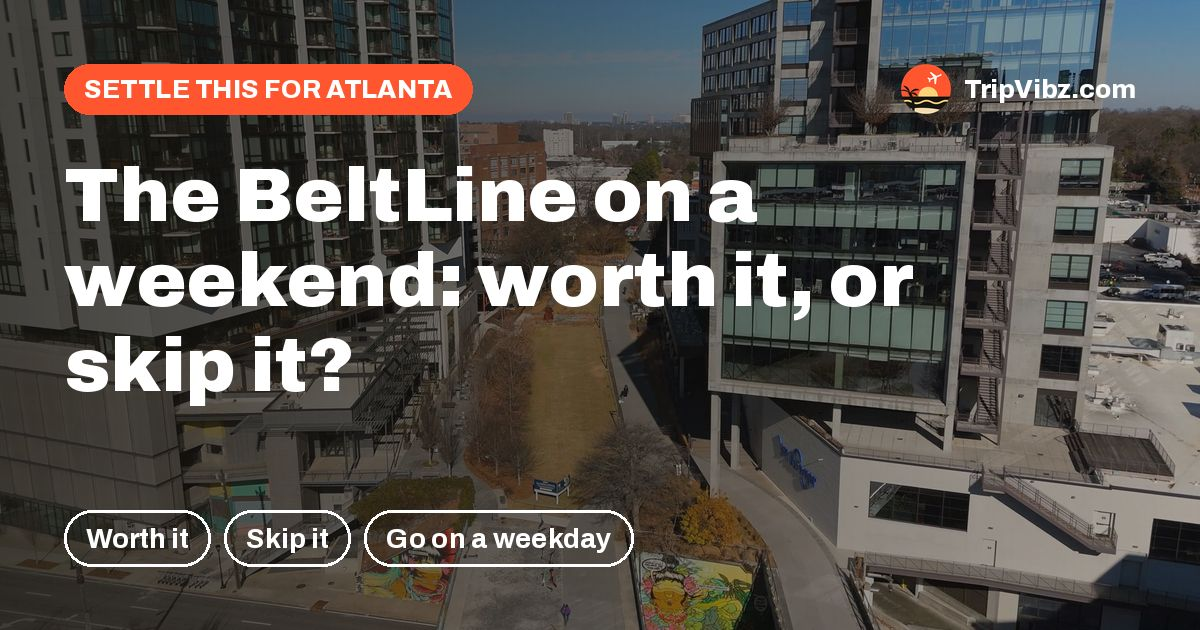
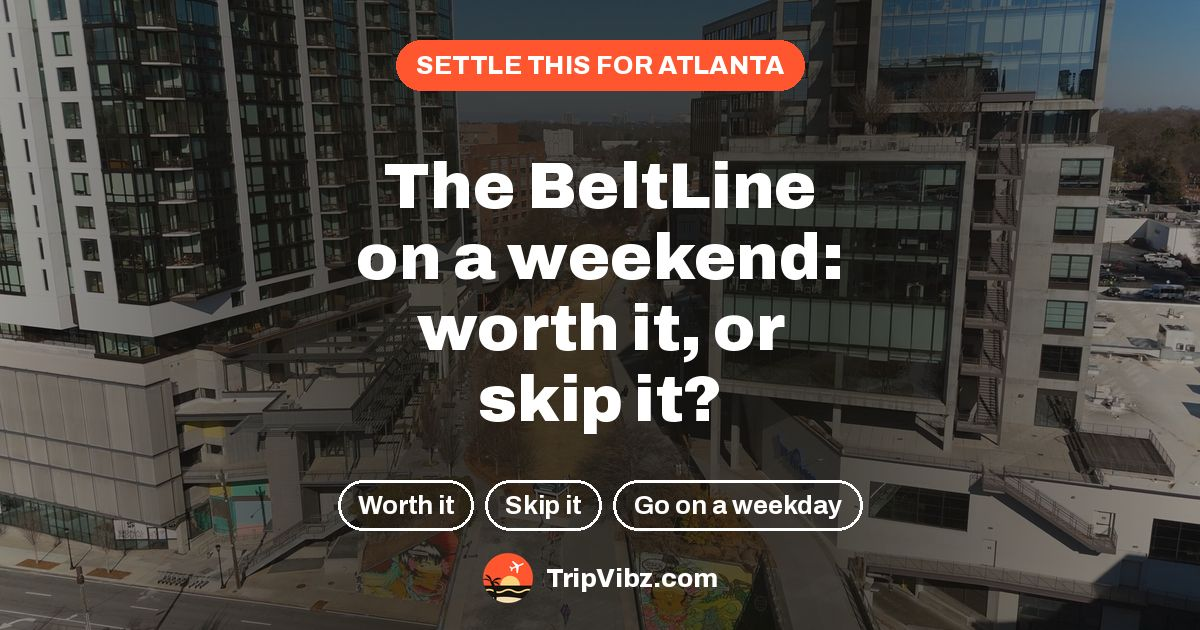
Share cards read in Facebook's comment preview
A link in a Facebook comment shows a square cut from the middle of the card,
and the left-aligned home card came out as fragments of words. The home,
cities and city question cards now keep every word inside the middle square,
centred, so both the full card and the square crop read.

Claude-Session: https://claude.ai/code/session_01NyWSecxYmZtntfacCNApmR

diff --git a/scripts/og_cards.py b/scripts/og_cards.py
@@ -142,13 +142,103 @@ def photo_base(pb):
     return shade(cover(Image.open(io.BytesIO(pb))))
 
 
+
+# ------------------------------------------------- centre-safe layout
+# Facebook shows a link's picture two ways: the whole 1200x630 card in a post, and a small
+# square cut from the MIDDLE of it beside a link in a comment (TripVibz reels put their link
+# in the first comment). Left-aligned cards came out as "...would / ...ke a / ?" in that
+# square (19 Nov 2026). Cards a person is likely to paste in a comment keep everything that
+# matters inside the middle square, centred, so both crops read.
+SAFE = 630                      # the middle square Facebook keeps
+SAFE_W = SAFE - 2 * 28          # widest line of type inside it
+CX = W // 2
+
+
+def shade_centre(base, mid=190, edge=95):
+    """Darken most in the middle column, where the type sits."""
+    m = Image.new("L", base.size)
+    d = ImageDraw.Draw(m)
+    half = SAFE / 2
+    for x in range(base.width):
+        t = min(1.0, max(0.0, (abs(x - CX) - half * 0.75) / (CX - half * 0.75)))
+        d.line([(x, 0), (x, base.height)], fill=int(mid - (mid - edge) * t))
+    return Image.composite(Image.new("RGB", base.size, INK), base, m)
+
+
+def c_kicker(d, text, y, fill=CORAL):
+    size = 26
+    while d.textlength(text, font=font(size, 800)) + 40 > SAFE_W and size > 16:
+        size -= 1
+    kf = font(size, 800); kw = d.textlength(text, font=kf)
+    d.rounded_rectangle([CX - kw / 2 - 20, y, CX + kw / 2 + 20, y + 50], radius=25, fill=fill)
+    d.text((CX, y + 25), text, font=kf, fill=WHITE, anchor="mm")
+
+
+def c_brand(base, d, y, size=26):
+    bf = font(size, 800); bw = d.textlength("TripVibz.com", font=bf); mw = size * 2
+    x = int(CX - (mw + 12 + bw) / 2)
+    mark = Image.open(MARK).convert("RGBA").resize((mw, mw), Image.LANCZOS)
+    base.paste(mark, (x, y), mark)
+    d.text((x + mw + 12, y + mw // 2), "TripVibz.com", font=bf, fill=WHITE, anchor="lm")
+
+
+def c_headline(d, text, y, lines=5, sizes=(64, 60, 56, 52, 48, 44, 40), color=WHITE):
+    f, ls, size = fit(d, text, SAFE_W, lines, sizes)
+    lh = int(size * 1.12)
+    for l in ls:
+        d.text((CX, y), l, font=f, fill=color, anchor="ma")
+        y += lh
+    return y
+
+
+def chip_rows(d, labels, of, max_w=SAFE_W, gap=12):
+    """Lay pills out in centred rows no wider than the safe square."""
+    rows, row, w = [], [], 0
+    for t in labels:
+        tw = d.textlength(t, font=of) + 40
+        if row and w + gap + tw > max_w:
+            rows.append((row, w)); row, w = [], 0
+        row.append((t, tw)); w += tw + (gap if len(row) > 1 else 0)
+    if row:
+        rows.append((row, w))
+    return rows
+
+
+def c_chips(d, labels, y, size=26, solid=None, gap=12, h=50):
+    of = font(size, 700)
+    for row, w in chip_rows(d, labels, of, gap=gap):
+        x = CX - w / 2
+        for t, tw in row:
+            if solid and t in solid:
+                d.rounded_rectangle([x, y, x + tw, y + h], radius=h // 2, fill=solid[t])
+                d.text((x + tw / 2, y + h / 2), t, font=of, fill=INK if solid[t] == WHITE else WHITE, anchor="mm")
+            else:
+                d.rounded_rectangle([x, y, x + tw, y + h], radius=h // 2, outline=WHITE, width=3)
+                d.text((x + tw / 2, y + h / 2), t, font=of, fill=WHITE, anchor="mm")
+            x += tw + gap
+        y += h + 10
+    return y
+
+
 # ---------------------------------------------------------------- card types
 
 def card_question(city, q, pb):
-    base = photo_base(pb); d = ImageDraw.Draw(base)
-    kicker(d, f"SETTLE THIS FOR {city['name'].upper()}"); brand(base, d)
-    headline(d, q["prompt"], PAD + 90)
-    chips(d, [o["label"] for o in q["options"][:3]])
+    """Centre-safe: this is the card behind a city link, and reels put that link in a comment."""
+    base = shade_centre(cover(Image.open(io.BytesIO(pb)))); d = ImageDraw.Draw(base)
+    c_kicker(d, f"SETTLE THIS FOR {city['name'].upper()}", 40)
+    labels = [o["label"] for o in q["options"][:3]]
+    rows = len(chip_rows(d, labels, font(26, 700)))
+    bottom = H - 96 - rows * 60                      # pills sit above the brand line
+    # The largest type whose lines fit both the safe width and the room between the label and the pills.
+    sizes = (64, 60, 56, 52, 48, 44, 40, 36)
+    for i in range(len(sizes)):
+        f, ls, size = fit(d, q["prompt"], SAFE_W, 6, sizes[i:])
+        if len(ls) * int(size * 1.12) <= bottom - 112 - 8:
+            break
+    y = 112 + max(0, (bottom - 112 - len(ls) * int(size * 1.12)) // 2)
+    c_headline(d, q["prompt"], y, lines=6, sizes=(size,))
+    c_chips(d, labels, bottom + 6)
+    c_brand(base, d, H - 78)
     return base
 
 
@@ -191,37 +281,34 @@ def card_take(city, pb):
 
 
 def card_home(cities, photos, leads):
+    """Centre-safe: the words sit in the middle square, two city photos stacked on each side."""
     base = Image.new("RGB", (W, H), INK)
-    # Right half: 2x2 photo mosaic with city labels.
-    tw, th, x0 = 300, 315, W - 600
-    lf = font(24, 800)
+    tw, th = (W - SAFE) // 2, H // 2
+    lf = font(22, 800)
     for i, slug in enumerate(HOME_CITIES):
         if slug not in photos:
             continue
         tile = cover(Image.open(io.BytesIO(photos[slug])), tw, th)
         tile = Image.composite(Image.new("RGB", tile.size, INK), tile, Image.new("L", tile.size, 70))
-        x, y = x0 + (i % 2) * tw, (i // 2) * th
+        x, y = (0 if i % 2 == 0 else W - tw), (i // 2) * th
         base.paste(tile, (x, y))
         name = next(c["name"] for c in cities if c["slug"] == slug)
-        ImageDraw.Draw(base).text((x + 18, y + th - 22), name, font=lf, fill=WHITE, anchor="ls")
+        ImageDraw.Draw(base).text((x + 16, y + th - 20), name, font=lf, fill=WHITE, anchor="ls")
     d = ImageDraw.Draw(base)
-    # Fade the mosaic's left edge into the text panel.
-    for i in range(80):
-        d.line([(x0 + i, 0), (x0 + i, H)], fill=tuple(int(c) for c in INK), width=1) if i == 0 else None
-    mark = Image.open(MARK).convert("RGBA").resize((60, 60), Image.LANCZOS)
-    base.paste(mark, (PAD, PAD - 6), mark)
-    d.text((PAD + 74, PAD + 24), "TripVibz.com", font=font(34, 900), fill=WHITE, anchor="lm")
-    y = headline(d, "Where would you take a friend?", PAD + 96, max_w=600 - PAD - 30, lines=4, sizes=(64, 58, 54, 50))
+    c_brand(base, d, 52, size=30)
+    y = c_headline(d, "Where would you take a friend?", 150, lines=3, sizes=(72, 66, 60, 54))
     # Two real lead questions as poll chips.
-    qf = font(24, 700)
-    y = max(y + 18, 420)
+    qf = font(23, 700)
+    y = max(y + 22, 392)
     for q in leads[:2]:
-        t = q if len(q) <= 34 else q[:33].rstrip() + "…"
+        t = q
+        while d.textlength(t, font=qf) + 36 > SAFE_W:
+            t = t[:-2].rstrip() + "…"
         w = d.textlength(t, font=qf)
-        d.rounded_rectangle([PAD, y, PAD + w + 36, y + 48], radius=24, outline=WHITE, width=2)
-        d.text((PAD + 18, y + 24), t, font=qf, fill=WHITE, anchor="lm")
-        y += 60
-    d.text((PAD, H - 34), "Ask someone who knows.", font=font(22, 700), fill=CORAL, anchor="ls")
+        d.rounded_rectangle([CX - w / 2 - 18, y, CX + w / 2 + 18, y + 48], radius=24, outline=WHITE, width=2)
+        d.text((CX, y + 24), t, font=qf, fill=WHITE, anchor="mm")
+        y += 58
+    d.text((CX, H - 34), "Ask someone who knows.", font=font(24, 700), fill=CORAL, anchor="ms")
     return base
 
 
@@ -232,11 +319,14 @@ def card_cities(cities, photos):
     for i, slug in enumerate(picks):
         tile = cover(Image.open(io.BytesIO(photos[slug])), tw, th)
         base.paste(tile, ((i % 4) * tw, (i // 4) * th))
-    base = shade(base, left=225, right=140)
+    base = shade_centre(base, mid=225, edge=130)
     d = ImageDraw.Draw(base)
-    kicker(d, f"{len(cities)} CITIES AND COUNTING"); brand(base, d)
-    y = headline(d, "Pick your city. Where would you take a friend?", PAD + 90, lines=3, sizes=(76, 70, 64))
-    subline(d, "Don't see yours? One tap to ask for it.", y + 14)
+    c_kicker(d, f"{len(cities)} CITIES AND COUNTING", 40)
+    y = c_headline(d, "Pick your city. Where would you take a friend?", 150, lines=4, sizes=(66, 60, 56, 52))
+    f, ls, sz = fit(d, "Don't see yours? One tap to ask for it.", SAFE_W, 2, (28, 26, 24), weight=600)
+    for l in ls:
+        d.text((CX, y + 18), l, font=f, fill=SOFT, anchor="ma"); y += int(sz * 1.3)
+    c_brand(base, d, H - 78)
     return base
 
 
